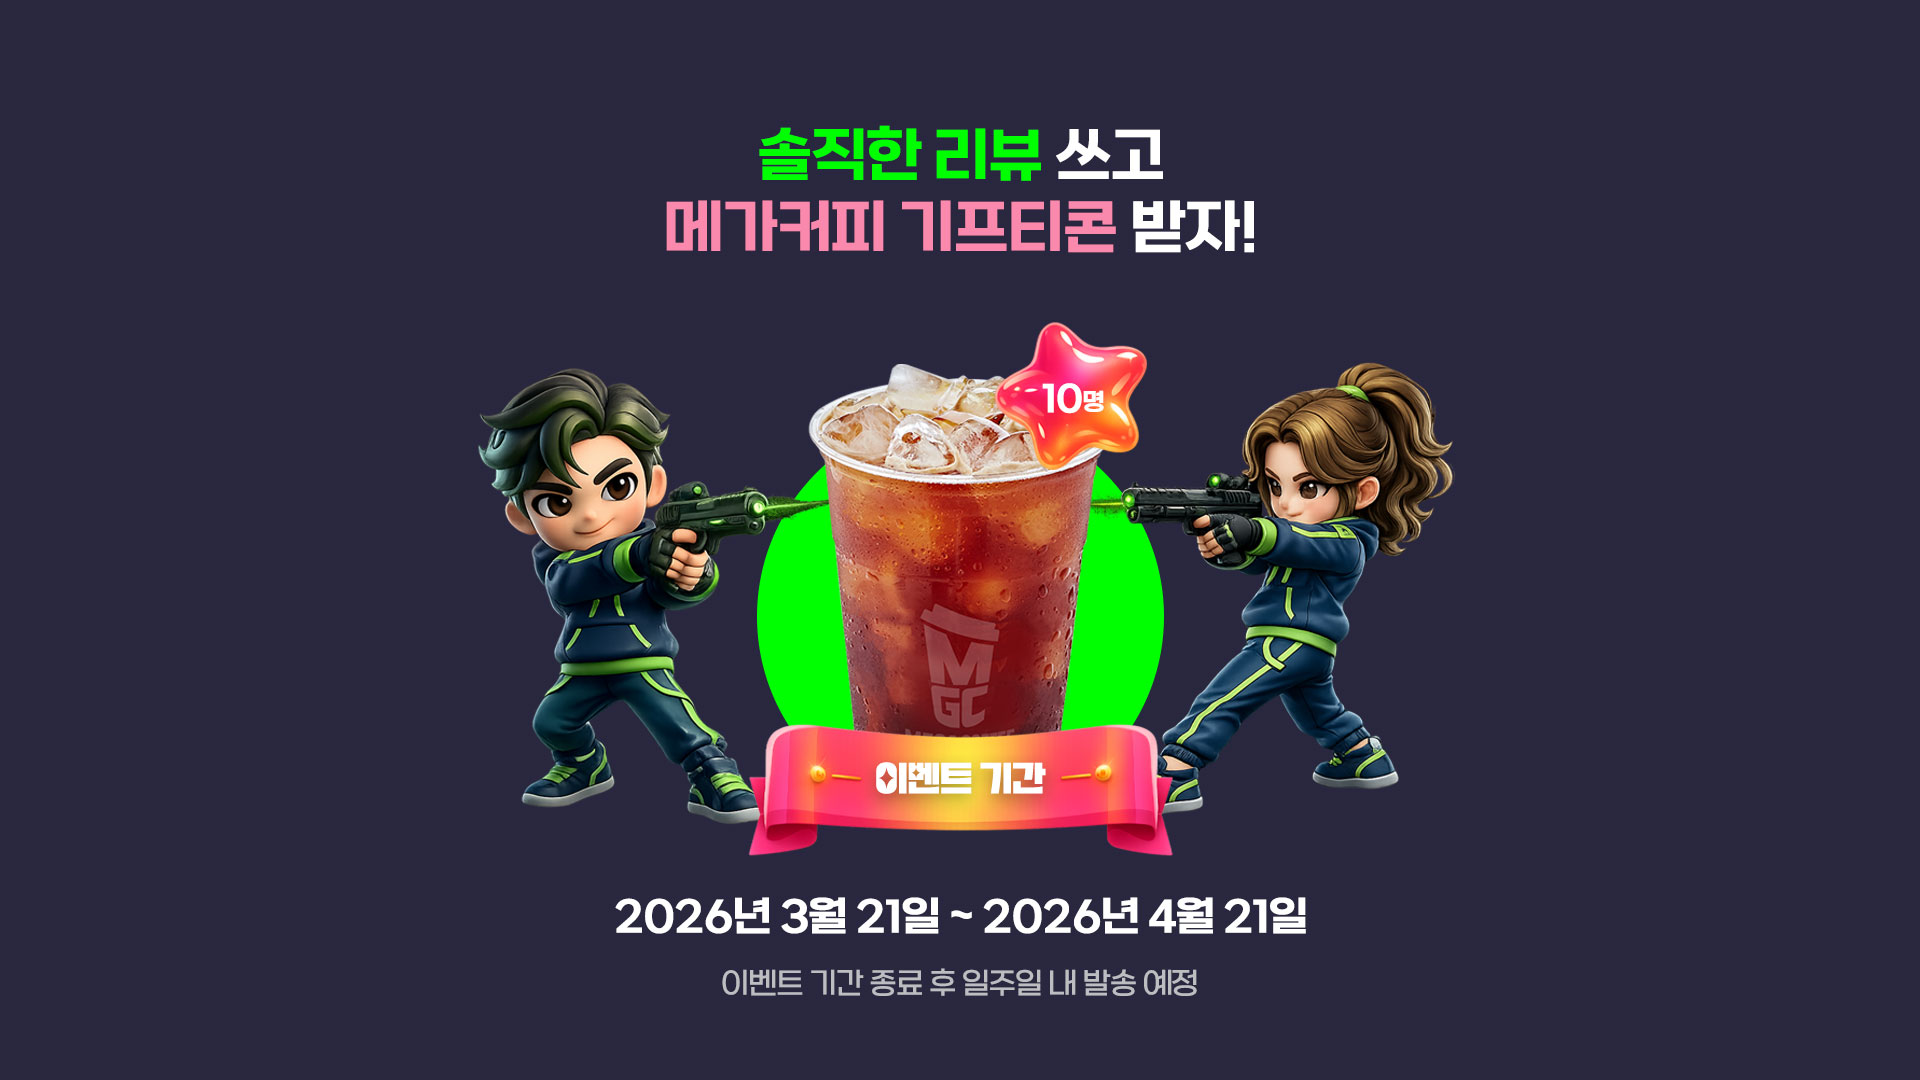
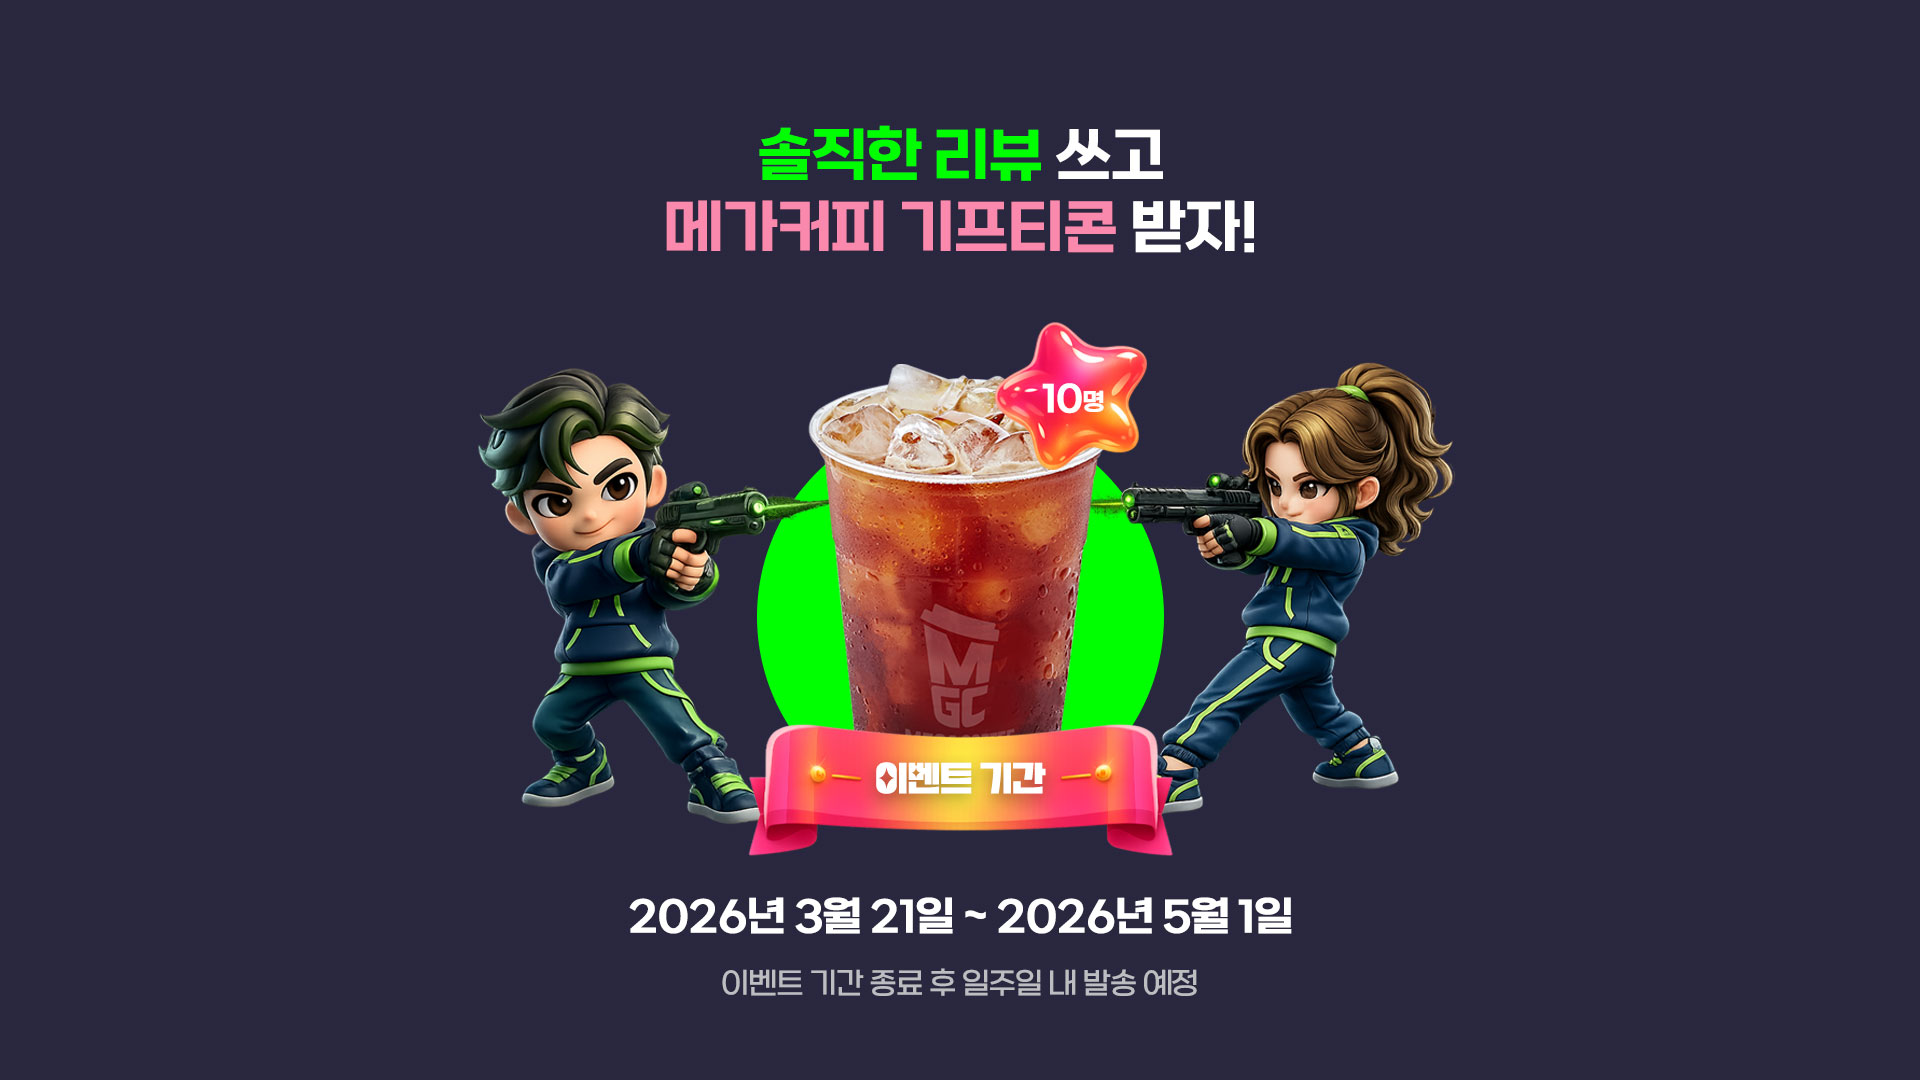
chore: [김정민] 이벤트 이미지 내 로고 및 일정 변경

Changed region(s): [[0.3125, 0.825, 0.6875, 0.8861]]

diff --git a/main-container/src/event/page/NewEventPage.tsx b/main-container/src/event/page/NewEventPage.tsx
@@ -1,7 +1,7 @@
 import React, { useEffect, useMemo, useState } from "react";
 import styled from "styled-components";
-import event1 from "../../assets/event/thumbnail/01.png";
-import event2 from "../../assets/event/thumbnail/02.png";
+import event1 from "../../assets/event/thumbnail/01.jpg";
+import event2 from "../../assets/event/thumbnail/02.jpg";
 import reviewer1 from "../../assets/event/reviewer/01.jpg";
 import reviewer2 from "../../assets/event/reviewer/02.jpg";
 import reviewer3 from "../../assets/event/reviewer/03.jpg";
@@ -313,7 +313,7 @@ const DUMMY: EventItem[] = [
         title: "오픈베타 이벤트",
         isNew: true,
         startDate: "2026-03-21",
-        endDate: "2026-04-21",
+        endDate: "2026-05-01",
         imageUrl: event1,
         status: "ONGOING",
         badge: { type: "DDAY", text: "" },
@@ -323,7 +323,7 @@ const DUMMY: EventItem[] = [
         title: "포텐 리뷰어 이벤트",
         isNew: true,
         startDate: "2026-03-21",
-        endDate: "2026-04-21",
+        endDate: "2026-05-01",
         imageUrl: event2,
         status: "ONGOING",
         badge: { type: "DDAY", text: "" },

diff --git a/main-container/src/event/page/NewEventDetailPage.tsx b/main-container/src/event/page/NewEventDetailPage.tsx
@@ -4,8 +4,8 @@ import { useNavigate, useParams } from "react-router-dom";
 import OpenBetaEventLanding from "./OpenBetaEventLanding.tsx";
 import PotenReviewerEventLanding from "./PotenReviewerEventLanding.tsx";
 
-import event1 from "../../assets/event/thumbnail/01.png";
-import event2 from "../../assets/event/thumbnail/02.png";
+import event1 from "../../assets/event/thumbnail/01.jpg";
+import event2 from "../../assets/event/thumbnail/02.jpg";
 
 import reviewer1 from "../../assets/event/reviewer/01.jpg";
 import reviewer2 from "../../assets/event/reviewer/02.jpg";
